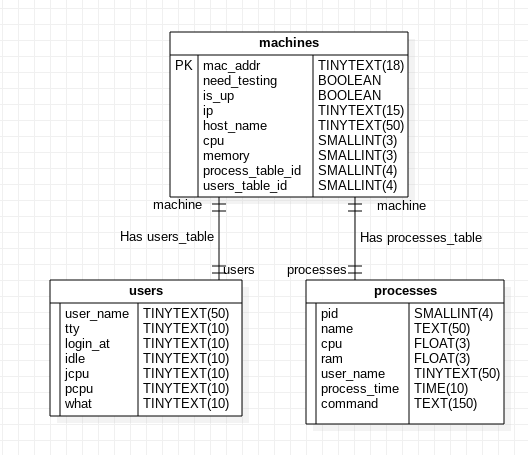
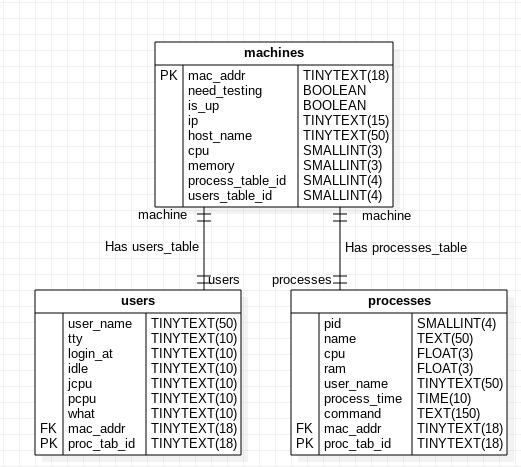
Answers

Changed region(s): [[0.0614, 0.0615, 0.9827, 0.9846]]

diff --git a/pass_validator/pass_validator.py b/pass_validator/pass_validator.py
@@ -4,10 +4,21 @@
 import sys
 import re
 
-
 def validator_regex(password, requirements):
-    combined_regex = ""
-    regex_list=list()
+    """
+    Find all the characters which matches the pattern
+    corresponding to input requirements. 
+    After filter characters, join all of them,
+    and check if it matches with the specified length.
+
+
+    Args:
+        password (str): Password to be validated.
+        requirements (List[tuple]): List of rules.
+
+    Returns:
+        [bool]: True if password satisfies requirements.
+    """
     does_pass=True
     for n_req in requirements:
         print(n_req)
@@ -25,16 +36,11 @@ def validator_regex(password, requirements):
         }
         rule_char = "("+req_dict[operation]+")"
         rule_size = "("+req_dict[operation]+size[comparation]+")"
-
-        combined_regex += rule_char + rule_size
-        regex_list.append(rule_char + rule_size)
         match = ''.join(re.findall(rule_char,password))
         match = re.fullmatch(rule_size,match)
         match = "" if match == None else match.string
         does_pass = does_pass and match != None and match != ""
         
-   
-    #return match == password
     return does_pass
 
 

diff --git a/pass_validator/test_pass_validator.py b/pass_validator/test_pass_validator.py
@@ -15,7 +15,6 @@ def test_spectial_count():
     req = [('LEN', '>', 8), ('SPECIALS', '>', 1), ('LEN', '<', 10)]
     assert validator("123@4567!", req) == True
 
-
 def test_validator_gtr():
     req = [('LEN', '>', 8), ('SPECIALS', '>', 1), ('LEN', '<', 10)]
     assert validator("1234567981!", req) == False
@@ -24,7 +23,6 @@ def test_validator_gtr():
 def test_validator_eq():
     req = [('LEN', '>', 8), ('SPECIALS', '>', 1), ('LEN', '<', 10)]
     assert validator("123@567!81", req) == False
-
 
 # %%
 def test_validator_letters():

diff --git a/README.md b/README.md
@@ -3,25 +3,24 @@ PART 1: Web Development & Automation
 =====================================
 
 
-1)
+## 1)
 A DB model can be designed by a ER model. The machine can modeled as strong entities, by each one having a unique identifier, which is MAC address. The process table, and users tables are weak entities, with cardinality 1:1.
 
 
-Machine
+## Machine
+  
+MAC addr, IP, host Name, Status, Is up, Logged Users, Running Process table, CPU usage,  Memory Usage  
 
-Attibutes:  
-MAC addr,IP, host Name, Status, Is up, Logged Users, Running Process table, CPU usage,  Memory Usage  
-
-Process table:
+## Process table:
 PID, Process name, CPU usage, Memory usage, time usage, command
 
-User:
+## User:
 User name, cpu usage, login at machine, idle 
 
 ![ER](./imgs/ER_MODEL.png)
 
 
-b)
+b) 
 
 
 c) 
@@ -36,14 +35,14 @@ The list of current machines connected at local network can be retrieved by:
 ```
 arp -vn
 ```
-Generating users table:
+## Generating users table:
 
 ```
 w -f| awk '(NR>1)' | tr -s '[:blank:]' ',' > users.csv
 ```
 ![ER](./imgs/users_csv.png)
 
-Generating process table:
+## Generating process table:
 
 ```
 ps -e -o %p, -o fname -o,%C, -o %mem, -o ,%x -o,%U, -o %c | sed 's/^.//g' > process.csv
@@ -51,13 +50,17 @@ ps -e -o %p, -o fname -o,%C, -o %mem, -o ,%x -o,%U, -o %c | sed 's/^.//g' > proc
 ![ER](./imgs/process_csv.png)
 
 
-Current machine total CPU usage:
+
+
+# Current machine statistics:
+
+- Total CPU usage:
 
 ```
 cpu_usage=$(awk -F"," '{x+=$2}END{print x}' ./process.csv)
 ```
 
-Current machine total MEM usage:
+- Current machine total MEM usage:
 
 ```
 mem_usage=$(awk -F"," '{x+=$3}END{print x}' ./process.csv)
@@ -65,23 +68,23 @@ mem_usage=$(awk -F"," '{x+=$3}END{print x}' ./process.csv)
  
 
 
-MAC address:
+- MAC address:
 ```
 mac_addr=$(ifconfig | grep -m1 -o -E '([[:xdigit:]]{1,2}:){5}[[:xdigit:]]{1,2}')
 ```
 
-IP address:
+- IP address:
 ```
 ip_addr=$(ifconfig | grep -A 3 "wlp2s0" |grep -m2 -o -E "\b([0-9]{1,3}\.){3}[0-9]{1,3}\b" | head -1)
 
 ```
 
-HostName:
+- HostName:
 ```
 host_name=$(cat /proc/sys/kernel/hostname)
 ```
 
-Store MachineTable headers:
+- Store machines table:
 ```
 echo mac_addr,need_testing,is_up,ip_addr,host_name,cpu_usage,mem_usage > machine_table.csv
 echo $mac_addr,$need_testing,$is_up,$ip_addr,$host_name,$cpu_usage,$mem_usage >> machine_table.csv
@@ -90,7 +93,7 @@ echo $mac_addr,$need_testing,$is_up,$ip_addr,$host_name,$cpu_usage,$mem_usage >>
 
 
 
-The sql scrpit "insert.sql" updates database with csv files data:
+## Sql scripit "insert.sql" updates database with csv files data:
 
 ```
 LOAD DATA LOCAL INFILE './machine_table.csv' 
@@ -113,9 +116,10 @@ FIELDS TERMINATED BY ','
 LINES TERMINATED BY '\n'
 IGNORE 1 ROWS; 
 ```
+- Database snapshot:
 ![ER](./imgs/process_db.png)
 
-
+## d) Background process
 The background process required is stored at background_process.sh.
 It uses ssh to connect to each machine, execute the former listed commands, and retrieve the each table of the machine, using ssh copy "scp":
 
@@ -190,15 +194,161 @@ So, when working with daily scheduled task, which spends more than 1 minutes,  5
 
 I would proceed using Conteiners, to encapsulate the application to the compatible kernel. The migration plan would be installing docker, set up MySQL8 in the conteiner. The former database need to be backed-up, exporting all the data to inside the database inside the conteiner.
 
-
+<br /> 
+<br /> 
 
 PART 2: Python
 ==========================
+<br /> 
+
+# 4)
 
 
+A password validator was implemented finding all the characters which matches the pattern corresponding to input requirements. After filter characters, join all of them, and check if it matches with the specified length.
+The source code and unitests are at pass validator directory.
 
-4.)
-======================
+Source:
+```
+#!/usr/bin/python3
+# -*- coding: utf-8 -*-
+
+import sys
+import re
+
+def validator_regex(password, requirements):
+    """
+    Find all the characters which matches the pattern
+    corresponding to input requirements. 
+    After filter characters, join all of them,
+    and check if it matches with the specified length.
 
 
+    Args:
+        password (str): Password to be validated.
+        requirements (List[tuple]): List of rules.
 
+    Returns:
+        [bool]: True if password satisfies requirements.
+    """
+    does_pass=True
+    for n_req in requirements:
+        (operation, comparation, length) = n_req
+        size = {
+            '<': r"{,"+rf"{length-1}" + r"}",
+            '>': r"{"+ rf"{length+1}"+ r",}",
+            '=': r"{"+ rf"{length},"+f"{length}"+r"}"
+        }
+        req_dict = {
+            "LEN": r".",
+            "SPECIALS": r"[^a-zA-Z0-9]",
+            "LETTERS": r"[a-zA-Z]",
+            "NUMBERS": r"[0-9]",
+        }
+        rule_char = "("+req_dict[operation]+")"
+        rule_size = (
+            "("+req_dict[operation]+size[comparation]+")")
+        match = ''.join(re.findall(rule_char,password))
+        match = re.fullmatch(rule_size,match)
+        match = "" if match == None else match.string
+        does_pass = (does_pass 
+            and match != None and match != "")
+           
+    return does_pass
+
+
+```
+
+Tests:
+```
+import pytest
+from pass_validator import validator_regex
+validator=validator_regex
+
+def test_len_gt_fail():
+    req = [('LEN', '=', 8), ('SPECIALS', '>', 1)]
+    assert validator("12345678!@", req) == False
+
+def test_validator_len_eq_ok():
+    req = [('LEN', '=', 8), ('SPECIALS', '>', 1)]
+    assert validator("@23a567!", req) == True
+
+def test_spectial_count():
+    req = [('LEN', '>', 8), ('SPECIALS', '>', 1), ('LEN', '<', 10)]
+    assert validator("123@4567!", req) == True
+
+def test_validator_gtr():
+    req = [('LEN', '>', 8), ('SPECIALS', '>', 1), ('LEN', '<', 10)]
+    assert validator("1234567981!", req) == False
+
+def test_validator_eq():
+    req = [('LEN', '>', 8), ('SPECIALS', '>', 1), ('LEN', '<', 10)]
+    assert validator("123@567!81", req) == False
+
+def test_validator_letters():
+    req = [('LETTERS', '>', 2), ('SPECIALS', '>', 1), ('LEN', '<', 10)]
+    assert validator("1abc@567!", req) == True
+
+```
+
+![Pytest](./imgs/pytest.png)
+
+
+<br /> 
+<br /> 
+<br /> 
+
+ PART 3: Quality Assurance
+=============================
+5.)
+=============================
+The main way to guarantee that no new code can affect already implemented features is by using automated tests. They can be unit tests or automated structural tests. They must be executed whenever a new commit is done to the main branch. 
+
+
+<br /> 
+<br /> 
+
+PART 4: Logic, Common Sense and Scripting
+=============================
+6.)
+=============================
+
+A simple algorithm was choosen to control the elevator. It assumes  a uniform distribuition of requests and destinations between the floors:
+
+- The elevator has Capacity of X peoples.
+ 
+- As long as there’s someone inside or ahead of the elevator who wants to go in the current direction, keep heading in that direction.
+
+- Once the elevator has exhausted the requests in its current direction, switch directions if there’s a request in the other direction, if it's not compleately loaded yet. Otherwise, stop and wait for a call.
+
+Test 0: No one requested. Stay at current floor.
+
+Test 1: 
+One person requesting elevator. The elevator is idle, then it must go imediately to the requested floor.
+
+Test 2: 
+One person requesting elevator already in use. The elevator is in the way of requested floor, it must stop at the requested floor.
+
+Test 3: 
+One person requesting elevator already in use. If the elevator is NOT in the way of requested floor, so it must switch direction to the requested floor.
+
+Test 4: 
+X+1 persons requesting elevator to go to ground floor. It must atend X peoples THEN fetch the last one.
+
+Test 5: 
+X persons curret in the elevator. It must stop whenever reaches a requested destination floor.
+
+
+<br /> 
+<br /> 
+
+7.)
+=============================
+a)
+It's implementation similar to insertion sort algorithm. It sorts in crescent order.
+
+b) Output:
+```
+5 6 8 12 34 35 38 44 55
+```
+
+c) The while loop shifts a large amount of the array whenever finds a smaller $val. It has complexity order of $O(n^2)$ of swapings and comparations.
